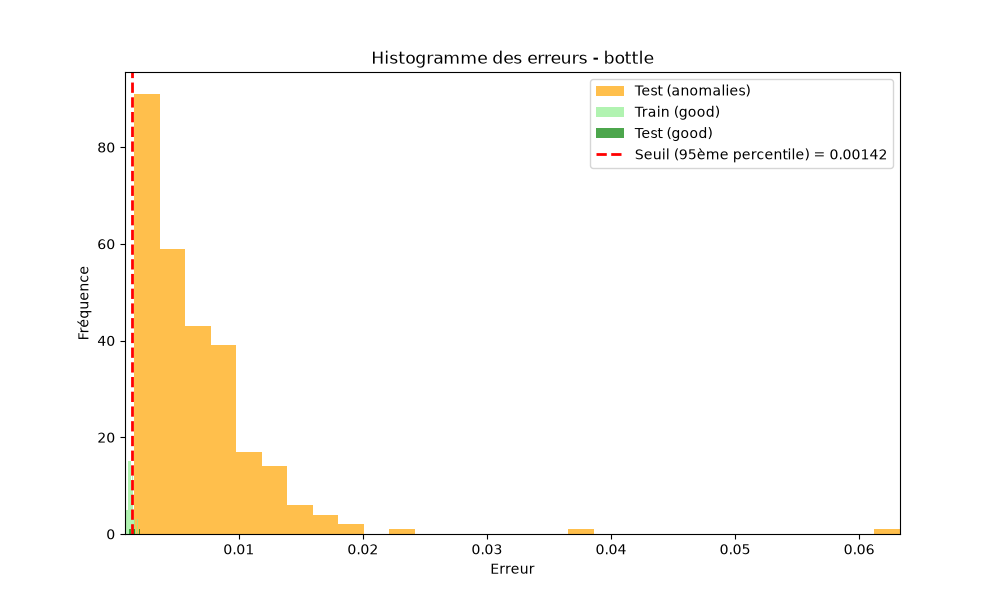
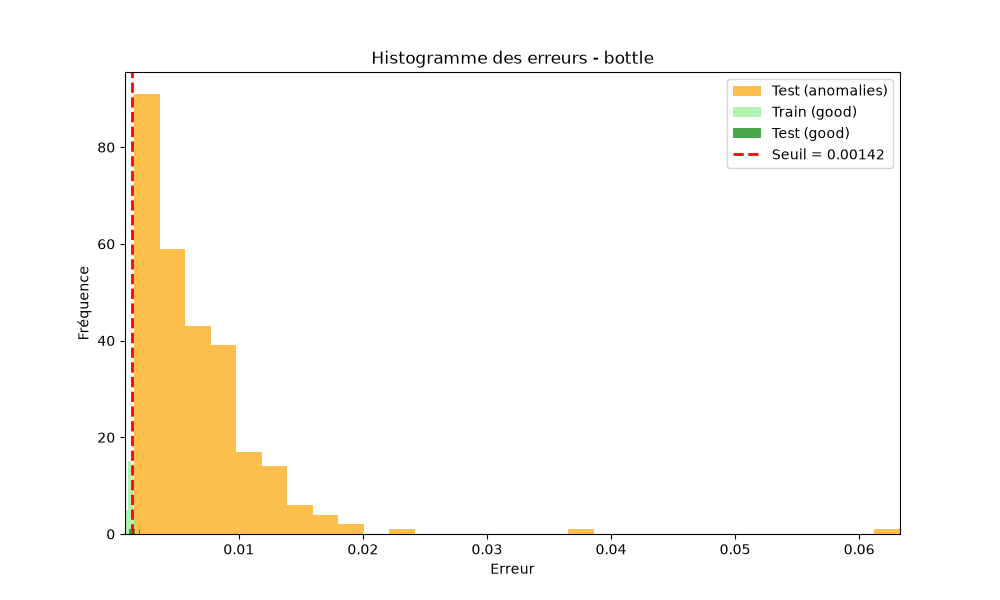
Find the best threshold from ROC

Changed region(s): [[0.589, 0.12, 0.899, 0.27]]

diff --git a/streamlit_app.py b/streamlit_app.py
@@ -15,7 +15,7 @@ from generic_model.autoencoder_model import load_autoencoder, get_grad_layer_nam
 from generic_model.autoencode_figures import plot_image_comparison
 
 from PIL import Image
-import re
+import re, csv
 
 from dotenv import load_dotenv
 from pathlib import Path
@@ -85,7 +85,7 @@ def predict_images(images, filenames, models_selected, models):
                 # else:
                 #     error_values = tf.reduce_mean(tf.abs(images_to_process - pred), axis=axes)
                 # Récupération du seuil
-                threshold = load_threshold(output_path / model["folder"], model["category"])
+                threshold, fpr, tpr = load_threshold(output_path / model["folder"], model["category"])
 
                 fig = plot_image_comparison(
                     images_to_process,
@@ -93,6 +93,8 @@ def predict_images(images, filenames, models_selected, models):
                     autoencoder,
                     error_score = model["error_score"], 
                     threshold=threshold, 
+                    fpr = fpr, 
+                    tpr = tpr, 
                     grad_layer_name=get_grad_layer_name(model["model_type"]),
                     encoded_images=pred,
                 )
@@ -166,16 +168,66 @@ def load_model_list(train_result_filename):
     best_by_cat = df.loc[df.groupby(["category"])["roc_auc"].idxmax()]
     return best_by_cat
 
+def best_threshold_from_roc(roc_path):
+    best_threshold = None
+    best_youden_index = float("-inf")
+    best_fpr = float("inf")
+    corresponding_tpr = 0
+
+    with open(roc_path, "r", newline="") as f:
+        reader = csv.reader(f)
+
+        for row in reader:
+            if len(row) < 3:
+                continue
+
+            try:
+                threshold = float(row[0])
+                fpr = float(row[1])
+                tpr = float(row[2])
+            except ValueError:
+                continue
+
+            # Le premier seuil peut être inf : il n'est pas utilisable
+            if threshold == float("inf"):
+                continue
+
+            youden_index = tpr - fpr
+
+            # En cas d'égalité, on privilégie le plus faible FPR
+            if (
+                youden_index > best_youden_index
+                or (
+                    youden_index == best_youden_index
+                    and fpr < best_fpr
+                )
+            ):
+                best_youden_index = youden_index
+                best_threshold = threshold
+                best_fpr = fpr
+                corresponding_tpr = tpr
+
+    if best_threshold is not None:
+        print(
+            f"Optimal ROC threshold: {best_threshold} "
+            f"(Youden index={best_youden_index:.4f}, FPR={best_fpr:.4f})"
+        )
+    return best_threshold, best_fpr, corresponding_tpr
+
 def load_threshold(model_path, category):
-    #print(f"CALLING with {model_path} and {category}")
-    with open(model_path / f"{category}_classification_report.txt", "r") as f:
-        line = f.readline()
-    #print("Line read:", line)
-    threshold = re.search(r'\(([-+]?\d*\.?\d+(?:[eE][-+]?\d+)?)\)', line)
-    if threshold is not None:
-        threshold = float(threshold.group(1))
+    print(f"Model of {category} in path: {model_path}")
+    roc_path = model_path / f"{category}_roc_curve.txt"
+    if roc_path.exists():
+        return best_threshold_from_roc(roc_path=roc_path)
+    else:
+        with open(model_path / f"{category}_classification_report.txt", "r") as f:
+            line = f.readline()
+        #print("Line read:", line)
+        threshold = re.search(r'\(([-+]?\d*\.?\d+(?:[eE][-+]?\d+)?)\)', line)
+        if threshold is not None:
+            threshold = float(threshold.group(1))
     #print("Threshold =", str(threshold))
-    return threshold
+    return threshold, None, None
 
 ##### PAGE CONTENT #####
 st.set_page_config(layout="wide")

diff --git a/generic_model/autoencode_figures.py b/generic_model/autoencode_figures.py
@@ -210,9 +210,13 @@ def save_classification_report(y_true, y_pred, output_path, output_filename="cla
         f.write("\n\n")
 
 @logging_function
-def draw_roc_curve(mses, labels, output_path, output_filename="roc_curve.png", category=""):
+def draw_roc_curve(mses, labels, output_path, output_filename_png="roc_curve.png", output_filename_txt="roc_curve.txt", category=""):
 
     fpr, tpr, thresholds = roc_curve(labels, mses)
+    with open(output_path / output_filename_txt, "w") as f:
+        for threshold, v_fpr, v_tpr in zip(thresholds, fpr, tpr):
+            f.write(f"{threshold},{v_fpr},{v_tpr}\n")
+
     roc_auc = auc(fpr, tpr)
 
     plt.figure(figsize=(8,6))
@@ -226,7 +230,7 @@ def draw_roc_curve(mses, labels, output_path, output_filename="roc_curve.png", c
     plt.ylabel('True Positive Rate')
     plt.title(f"ROC Curve - {category}")
     plt.legend(loc="lower right")
-    plt.savefig(output_path / output_filename)
+    plt.savefig(output_path / output_filename_png)
 
     return roc_auc
 
@@ -309,8 +313,8 @@ def overlay_heatmap(image, heatmap, alpha=0.4):
     if image.shape[-1] == 1 or len(image.shape) == 2:
         image = cv2.cvtColor(image, cv2.COLOR_GRAY2RGB)
 
-    print("Shape image =", image.shape)
-    print("Shape heatmap_colored =", heatmap_colored.shape)
+    #print("Shape image =", image.shape)
+    #print("Shape heatmap_colored =", heatmap_colored.shape)
     overlay = cv2.addWeighted(image, 1 - alpha, heatmap_colored, alpha, 0)
 
     return overlay
@@ -318,7 +322,7 @@ def overlay_heatmap(image, heatmap, alpha=0.4):
 
 # Visualisation des images reconstruites
 @logging_function
-def plot_image_comparison(orig_images, orig_labels, model, error_score, threshold=None, grad_layer_name=None, encoded_images=None):
+def plot_image_comparison(orig_images, orig_labels, model, error_score, threshold=None, fpr=None, tpr=None, grad_layer_name=None, encoded_images=None):
     """ Affiche les num_images premières images originales, leur grad-cam, leur version auto-encodées et leurs différences (MSE).
     """
 
@@ -380,13 +384,17 @@ def plot_image_comparison(orig_images, orig_labels, model, error_score, threshol
         prediction_text = ""
         if threshold is not None:
             if error_score=='mse':
-                prediction = mse >= threshold
+                anomaly = mse >= threshold
             else:
-                prediction = mae >= threshold
-            prediction_text = f" - (identified as {'anomaly' if prediction else 'good'})"
+                anomaly = mae >= threshold
+            prediction_text = f" - ({'anomaly' if anomaly else 'good'})"
 
-        titre = f"{image_label} - Threshold {error_score.upper()} = {threshold:.4f}"
+        titre = f"{image_label}"
+        titre += f" - Threshold {error_score.upper()} = {threshold:.4f}"
+        if fpr is not None and tpr is not None:
+            titre += f" (FPR={fpr*100:.2f}%, TPR={tpr*100:.2f}%)"
         titre += prediction_text
+        color="red" if anomaly else "green"
 
         ax_title = fig.add_subplot(gs[2*i, :])
         ax_title.axis("off")
@@ -396,7 +404,7 @@ def plot_image_comparison(orig_images, orig_labels, model, error_score, threshol
                 width=0.1,
                 height=1,
                 transform=ax_title.transAxes,
-                color="red" if prediction else "green",
+                color=color,
             )
         )
         # Rectangle droit
@@ -406,7 +414,7 @@ def plot_image_comparison(orig_images, orig_labels, model, error_score, threshol
                 width=0.1,
                 height=1.0,
                 transform=ax_title.transAxes,
-                color="red" if prediction else "green",
+                color=color,
                 clip_on=False,
             )
         )

diff --git a/generic_model/autoencode.py b/generic_model/autoencode.py
@@ -87,16 +87,16 @@ if not os.path.exists(parent_output_path):
 #categories = ['bottle', 'cable', 'capsule', 'carpet', 'grid',
 #    'hazelnut', 'leather', 'metal_nut', 'pill', 'screw', 'screw_preprocessed',
 #    'tile', 'toothbrush', 'transistor', 'wood', 'zipper', 'metal_plate']
-categories = ['wood']
+categories = ['bottle']
 
-resized_dimension = (224,224)
+resized_dimension = (256,256)
 batch_size = 8
 
-grayscale = False
+grayscale = True
 color_augmentation=False
 move_augmentation=False
 
-model_type = 'convtl_dense' # 'conv', 'dense_conv', 'conv_dense', 'dense', 'convtl', 'convtl_dense', 'vae_transfer'
+model_type = 'convtl' # 'conv', 'dense_conv', 'conv_dense', 'dense', 'convtl', 'convtl_dense', 'vae_transfer'
 retrain_layers = 4 # en cas de transfer learning, indique le type et la profondeur du fine-tuning :
 # 0 : feature extraction uniquement, on ne ré-entraine pas le modèle
 # 1 à n : fine-tuning partiel, on fine-tune les n dernières couches du modèle
@@ -331,7 +331,8 @@ for category in categories:
     roc_auc = fig.draw_roc_curve(test_errors, 
                     y_true, 
                     output_path, 
-                    output_filename=f"{category}_roc_curve.png", 
+                    output_filename_png=f"{category}_roc_curve.png", 
+                    output_filename_txt=f"{category}_roc_curve.txt", 
                     category=category)
 
     # Visualisation des images reconstruites pour les anomalies
